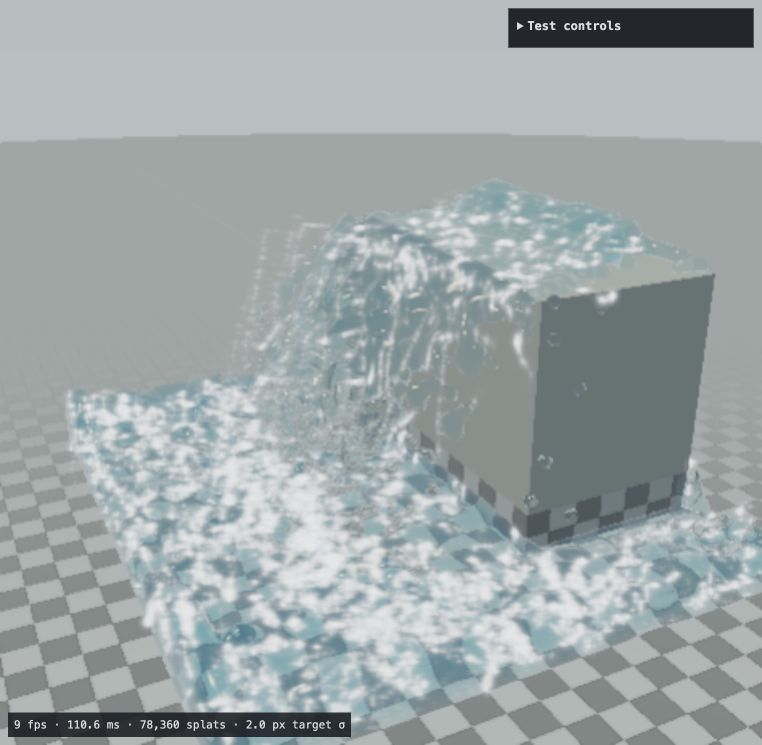
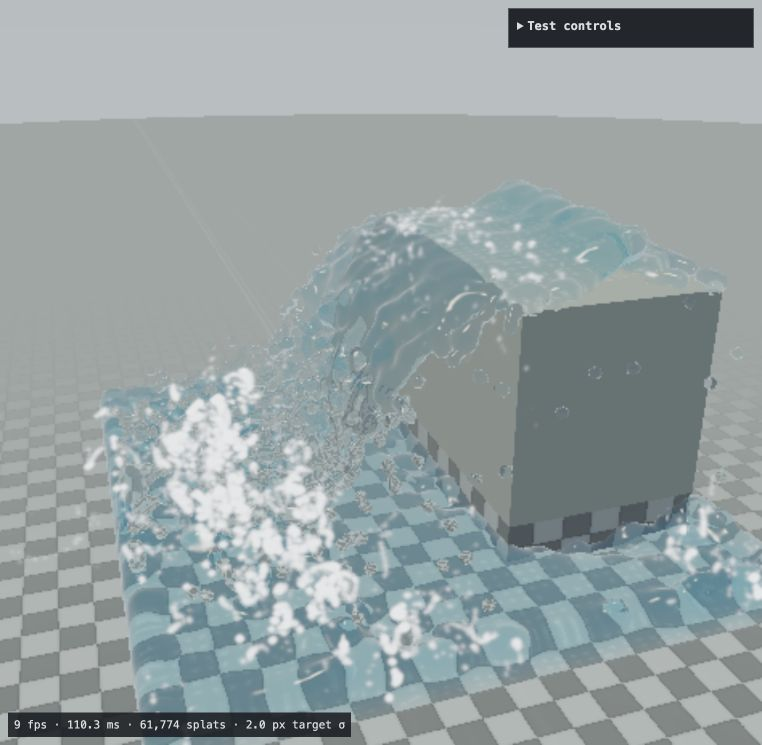
Focus whitewater emission on deformation and impacts

Changed region(s): [[0.0, 0.247, 1.0, 1.0], [0.0, 0.1544, 1.0, 0.2161]]

diff --git a/src/water-lab-detail.js b/src/water-lab-detail.js
@@ -38,30 +38,47 @@ export class LabDetail {
     ['P','V','I'].forEach((k,i)=>this.u['uSpawn'+k].value=this.spawn[i]);
     this.expiry=new Float64Array(this.capacity);this.geometry=new THREE.PlaneGeometry(2,2);this.material=new THREE.ShaderMaterial({glslVersion:THREE.GLSL3,vertexShader:QUAD_VERTEX,fragmentShader:simulation,uniforms:this.u,depthTest:false,depthWrite:false});this.scene=new THREE.Scene();this.scene.add(new THREE.Mesh(this.geometry,this.material));this.camera=new THREE.Camera();this.reset();
   }
-  reset(){this.cursor=0;this.pending=0;this.count=0;this.time=0;this.sequence=0;this.emitted=0;this.overwritten=0;this.expiry.fill(0);this.budget=new Float32Array(0);this.sources=new Float32Array(0);for(const t of this.fallback){t.image.data.fill(0);t.needsUpdate=true;}this.clear=true;this.current=0;this.bind(this.fallback);}
+  reset(){this.cursor=0;this.pending=0;this.count=0;this.time=0;this.sequence=0;this.emitted=0;this.overwritten=0;this.expiry.fill(0);this.budget=new Float32Array(0);this.strength=new Float32Array(0);this.sources=new Float32Array(0);for(const t of this.fallback){t.image.data.fill(0);t.needsUpdate=true;}this.clear=true;this.current=0;this.bind(this.fallback);}
   bind(textures){['P','V','I'].forEach((k,i)=>this.u['uDetail'+k].value=textures[i]);}
   emit(lab,dt){
     if(!this.enabled||this.density===0||!lab.surfaceMetrics)return;
-    if(this.budget.length<lab.count){const b=new Float32Array(lab.count);b.set(this.budget);for(let i=this.budget.length;i<b.length;i++)b[i]=hash(i+35);this.budget=b;const history=new Float32Array(lab.count*3);history.fill(NaN);history.set(this.sources);this.sources=history;}
+    if(this.budget.length<lab.count){const b=new Float32Array(lab.count);b.set(this.budget);for(let i=this.budget.length;i<b.length;i++)b[i]=hash(i+35);this.budget=b;const strength=new Float32Array(lab.count);strength.set(this.strength);this.strength=strength;const history=new Float32Array(lab.count*3);history.fill(NaN);history.set(this.sources);this.sources=history;}
     const s=lab.spacing,scale=lab.spec.scale;
-    let totalEnergy=0;for(let i=0;i<lab.count;i++)if(hash(i+235)<.16&&!lab.positions[i*4+3])totalEnergy+=Math.max(0,lab.surfaceMetrics[i*4+3]-.035);
+    let totalEnergy=0;
+    for(let i=0;i<lab.count;i++){
+      if(hash(i+235)>=.16)continue;
+      const o=i*4,history=i*3,point=[0,1,2].map(k=>lab.positions[o+k]+lab.surfaceMetrics[o+k]*s*.8),teleported=Number.isFinite(this.sources[history])&&Math.hypot(...point.map((v,k)=>v-this.sources[history+k]))>s*2;
+      // A missing fluid neighbor can be a wall, not air. Do not seed foam
+      // under the floor, inside a vessel wall or against a submerged body.
+      if(lab.positions[o+3]||lab.solid&&lab.solid(point)<s*.08){this.strength[i]=0;this.sources.fill(NaN,history,history+3);continue;}
+      if(teleported){this.strength[i]=0;this.sources.fill(NaN,history,history+3);}
+      const signal=Math.max(0,lab.surfaceMetrics[o+3]-.12),target=signal*signal,tau=target>this.strength[i]?.055:.18;
+      this.strength[i]+=(target-this.strength[i])*(1-Math.exp(-dt/tau));
+      totalEnergy+=this.strength[i];
+    }
     const rate=Math.min(1600,65000/Math.max(1,totalEnergy))*this.density;
     for(let i=0;i<lab.count;i++){
-      const o=i*4,energy=lab.surfaceMetrics[o+3];if(hash(i+235)>=.16||energy<.035||lab.positions[o+3]){this.sources.fill(NaN,i*3,i*3+3);continue;}
-      this.budget[i]+=dt*Math.max(0,energy-.035)*rate;
-      const count=Math.min(96,Math.floor(this.budget[i]));this.budget[i]-=count;
+      const o=i*4,energy=Math.sqrt(this.strength[i]);if(hash(i+235)>=.16||energy<.035||lab.positions[o+3]){this.sources.fill(NaN,i*3,i*3+3);continue;}
+      this.budget[i]+=dt*this.strength[i]*rate;
+      // Let a small, intense patch use more of the existing global budget.
+      // Discard throttled visual-marker debt so a spent impact cannot keep
+      // emitting a backlog long after its activity has decayed.
+      const count=Math.min(2048,Math.floor(this.budget[i]));this.budget[i]=Math.min(.999,this.budget[i]-count);
       // Persistent emitter patches trace the moving free surface. Small
-      // markers retain coherent trajectories; screen-space density gives
-      // neighboring strands a shared envelope without enlarging each marker.
-      const r=hash(i+817),theta=hash(i+41)*Math.PI*2,z=hash(i+73)*2-1,xy=Math.sqrt(1-z*z),patch=[Math.cos(theta)*xy,z,Math.sin(theta)*xy],normal=Array.from(lab.surfaceMetrics.subarray(o,o+3)),kind=r<.18?2:r<.62?1:0;
+      // markers retain coherent trajectories and accumulate into connected
+      // strands without enlarging each marker.
+      const r=hash(i+817),theta=hash(i+41)*Math.PI*2,z=hash(i+73)*2-1,xy=Math.sqrt(1-z*z),patch=[Math.cos(theta)*xy,z,Math.sin(theta)*xy],normal=Array.from(lab.surfaceMetrics.subarray(o,o+3));
+      // Surface foam belongs on a reasonably upward-facing interface.
+      // Falling sheets shed ballistic spray instead of floating foam trails.
+      const vertical=lab.velocities[o+1]*scale,kind=normal[1]>.35&&vertical>-.7&&vertical<1.5?(r<.18&&energy>.8?2:1):0;
       const tangent=patch.reduce((sum,v,k)=>sum+v*normal[k],0);for(let k=0;k<3;k++)patch[k]-=normal[k]*tangent;
       const source=normal.map((v,k)=>lab.positions[o+k]+patch[k]*s*.35+v*s*(kind===2?-.12:.8)),history=i*3;
       // Pump recycling teleports a parcel to the inlet. Never connect that
       // discontinuity with an artificial spray strand across the fixture.
       if(!Number.isFinite(this.sources[history])||Math.hypot(...source.map((v,k)=>v-this.sources[history+k]))>s*2)this.sources.set(source,history);
       for(let j=0;j<count&&this.pending<this.capacity;j++){
-        const id=++this.sequence,p=this.pending*4,along=(j+hash(id+61))/Math.max(1,count),spread=Math.min(2.5,energy*.6)/scale,life=(kind===1?.8+hash(i+93)*1.4:kind===2?.35+hash(i+93)*.9:.3+hash(i+93))*(.92+.16*hash(id+91));
-        for(let k=0;k<3;k++){const jitter=hash(id*7+k+119)-.5;this.spawn[0].image.data[p+k]=this.sources[history+k]*(1-along)+source[k]*along+jitter*s*.10;this.spawn[1].image.data[p+k]=lab.velocities[o+k]+(kind===0?(patch[k]+normal[k])*spread:0)+jitter*.025/scale;}
+        const id=++this.sequence,p=this.pending*4,along=(j+hash(id+61))/Math.max(1,count),spread=Math.min(2.5,Math.sqrt(energy)*.6)/scale,life=(kind===1?.8+hash(i+93)*1.4:kind===2?.35+hash(i+93)*.9:.3+hash(i+93))*(.92+.16*hash(id+91));
+        for(let k=0;k<3;k++){const jitter=hash(id*7+k+119)-.5;this.spawn[0].image.data[p+k]=this.sources[history+k]*(1-along)+source[k]*along+jitter*s*.10;this.spawn[1].image.data[p+k]=lab.velocities[o+k]+(kind===0?(patch[k]*.25+normal[k])*spread:0)+jitter*.025/scale;}
         this.spawn[0].image.data[p+3]=0;this.spawn[1].image.data[p+3]=life;this.spawn[2].image.data.set([detailRadius(s,scale,hash(id+11))/scale,kind,.45+.4*hash(id+13),r],p);
         const slot=(this.cursor+this.pending)%this.capacity;if(this.expiry[slot]>this.time)this.overwritten++;this.expiry[slot]=this.time+life;
         this.pending++;this.emitted++;

diff --git a/tests/water-lab-detail.test.js b/tests/water-lab-detail.test.js
@@ -26,15 +26,31 @@ test('merged transport retains reciprocal solute diffusion and held points',()=>
  for(let i=0;i<6;i++)for(let k=0;k<3;k++)assert.ok(Math.abs(expected[i*4+k]-result.chem[i*4+k])<1e-6);
  assert.deepEqual(Array.from(result.velocities.slice(0,3)),[0,0,0]);assert.equal(result.metrics[3],0);
 });
-test('quiet surfaces do not emit whitewater, localized shear does',()=>{
- const p=new Float32Array([-0.2,1,0,0,0,1,0,0,.2,1,0,0]),v=p.slice().fill(0),c=v.slice(),neighbors=buildNeighbors(p,.23).data;
- const quiet=transportFluid(p,p,v,c,neighbors,.23,1,.01);assert.equal(quiet.metrics[3]+quiet.metrics[7]+quiet.metrics[11],0);
- const next=p.slice();next[5]+=.025;const disturbed=transportFluid(p,next,v,c,neighbors,.23,1,.01);assert.ok(disturbed.metrics.some((x,i)=>i%4===3&&x>0));
+function surfaceFlow(velocity,incoming=velocity){
+ const p=[];for(let y=0;y<3;y++)for(let z=-2;z<=2;z++)for(let x=-2;x<=2;x++)p.push(x*.2,1+y*.2,z*.2,0);
+ const next=new Float32Array(p),old=next.slice(),v=next.slice().fill(0),predicted=next.slice(),c=v.slice(),dt=.01;
+ for(let i=0;i<p.length;i+=4){const current=velocity(...p.slice(i,i+3)),before=incoming(...p.slice(i,i+3));for(let k=0;k<3;k++){old[i+k]-=current[k]*dt;v[i+k]=before[k];predicted[i+k]=old[i+k]+before[k]*dt;}}
+ const result=transportFluid(old,next,v,c,buildNeighbors(next,.23).data,.23,1,dt,predicted);
+ return Math.max(...Array.from(result.metrics).filter((_,i)=>i%4===3));
+}
+test('translation, free fall and rigid rotation do not create whitewater by speed alone',()=>{
+ for(const velocity of [()=>[0,0,0],()=>[12,0,0],()=>[0,-15,0],(x,y)=>[-y*8,x*8,0],(x)=>[x*.1,0,0]])assert.equal(surfaceFlow(velocity),0);
+});
+test('strong surface deformation and an impact independently generate whitewater',()=>{
+ assert.ok(surfaceFlow(x=>[x*12,0,0])>.5);
+ assert.ok(surfaceFlow(()=>[0,-1,0],()=>[0,-8,0])>1);
 });
 test('fine Gaussian emission is dense, bounded and does not create liquid volume or solutes',()=>{
  const lab=new WaterLab(mock);lab.configure('pool');const volume=lab.volume,chem=lab.chem.slice();lab.surfaceMetrics=new Float32Array(lab.count*4);for(let i=0;i<lab.count;i++)lab.surfaceMetrics.set([0,1,0,2],i*4);
  lab.detail.emit(lab,1/60);assert.ok(lab.detail.pending>100);assert.ok(lab.detail.pending<1500);assert.equal(lab.volume,volume);assert.deepEqual(lab.chem,chem);
  assert.ok(detailRadius(.36,600,.5)/600<.36*.08);assert.ok(detailRadius(.19,.0025,.5)<.001);
+});
+test('a small intense region receives most of the bounded emission budget',()=>{
+ const count=1024,lab={count,spacing:.2,spec:{scale:1},positions:new Float32Array(count*4),velocities:new Float32Array(count*4),surfaceMetrics:new Float32Array(count*4)};
+ for(let i=0;i<count;i++){const strong=i>=count-16;lab.positions[i*4]=strong?10:0;lab.surfaceMetrics.set([0,1,0,strong?5:.18],i*4);}
+ const detail=new LabDetail(mock);detail.emit(lab,1/60);let strong=0,weak=0;
+ for(let i=0;i<detail.pending;i++)if(detail.spawn[0].image.data[i*4]>5)strong++;else weak++;
+ assert.ok(strong>800);assert.ok(strong>weak*20);assert.ok(detail.pending<1200);assert.ok(detail.budget.every(v=>v<1));detail.dispose();
 });
 test('recirculated emitters do not draw spray bridges back to their previous location',()=>{
  const count=128,lab={count,spacing:.2,spec:{scale:1},time:.05,positions:new Float32Array(count*4),velocities:new Float32Array(count*4),surfaceMetrics:new Float32Array(count*4)};
@@ -43,6 +59,15 @@ test('recirculated emitters do not draw spray bridges back to their previous loc
  for(let i=0;i<count;i++)lab.positions[i*4]=50;lab.time+=1/60;detail.emit(lab,1/60);assert.ok(detail.pending>0);
  for(let i=0;i<detail.pending;i++)assert.ok(detail.spawn[0].image.data[i*4]>49.5);
  detail.dispose();
+});
+test('emission stays coherent through a brief lull, rejects solid boundaries and makes falling spray ballistic',()=>{
+ const count=128,lab={count,spacing:.2,spec:{scale:1},positions:new Float32Array(count*4),velocities:new Float32Array(count*4),surfaceMetrics:new Float32Array(count*4),solid:()=>1};
+ for(let i=0;i<count;i++){lab.surfaceMetrics.set([0,1,0,3],i*4);lab.velocities[i*4+1]=-2;}
+ const detail=new LabDetail(mock);detail.emit(lab,.05);assert.ok(detail.pending>0);
+ for(let i=0;i<detail.pending;i++)assert.equal(detail.spawn[2].image.data[i*4+1],0);
+ const before=detail.strength.reduce((a,b)=>a+b,0);lab.surfaceMetrics.fill(0);for(let i=0;i<count;i++)lab.surfaceMetrics[i*4+1]=1;
+ detail.emit(lab,.01);const after=detail.strength.reduce((a,b)=>a+b,0);assert.ok(after<before&&after>before*.8);
+ lab.solid=()=>0;detail.pending=0;detail.emit(lab,.01);assert.equal(detail.pending,0);assert.equal(detail.strength.reduce((a,b)=>a+b,0),0);detail.dispose();
 });
 test('free detail reacts to a wind ray and has a finite lifetime without any collision dependency',()=>{
  const a=detailStep([0,1,0],[0,0,0],0,1,.1,0,0,0,null,1,30),b=detailStep([0,1,0],[0,0,0],0,1,.1,0,0,0,{origin:[-1,1,0],direction:[1,0,0]},1,30);assert.ok(b.position[0]>a.position[0]);assert.ok(a.position[1]<1);

diff --git a/src/water-lab-transport.js b/src/water-lab-transport.js
@@ -4,11 +4,16 @@ export const WATER_DENSITY=WATER_MATERIAL.density,WATER_KINEMATIC_VISCOSITY=WATE
 export function physicalCoefficients(spacing,scale,dt){const h=spacing*scale;return {viscosity:1-Math.exp(-6*WATER_KINEMATIC_VISCOSITY*dt/(h*h)),capillary:WATER_SURFACE_TENSION/(WATER_DENSITY*h*h*scale)};}
 // One reciprocal neighbor traversal handles smoothing, conserved diffusion,
 // surface normals and velocity variance. No temporary arrays per pair.
-export function transportFluid(old,next,previousVelocity,chem,neighbors,s,scale,dt,wind=0){const n=next.length/4,vel=new Float32Array(next.length),out=chem.slice(),metrics=new Float32Array(next.length),counts=new Uint16Array(n),raw=new Float32Array(next.length),h=2*s,invH2=1/(h*h),w0=315/(512*Math.PI),diff=Math.min(.006,dt*.12),coeff=physicalCoefficients(s,scale,dt);
+export function transportFluid(old,next,previousVelocity,chem,neighbors,s,scale,dt,predicted=null){const n=next.length/4,vel=new Float32Array(next.length),out=chem.slice(),metrics=new Float32Array(next.length),counts=new Uint16Array(n),raw=new Float32Array(next.length),h=2*s,invH2=1/(h*h),w0=315/(512*Math.PI),diff=Math.min(.006,dt*.12),coeff=physicalCoefficients(s,scale,dt),threshold=Math.max(.08,.3*Math.sqrt(9.81*s*scale));
  for(let i=0;i<n;i++)for(let k=0;k<3;k++)raw[i*4+k]=old[i*4+3]?0:(next[i*4+k]-old[i*4+k])/dt;
- for(let i=0;i<n;i++){const o=i*4;let weight=0,ax=0,ay=0,az=0,nx=0,ny=0,nz=0,shear=0,count=0,c0=0,c1=0,c2=0;
-  for(let a=0;a<NEIGHBORS;a++){const j=neighbors[i*NEIGHBORS+a];if(j<0)break;const q=j*4,x=next[o]-next[q],y=next[o+1]-next[q+1],z=next[o+2]-next[q+2],r2=x*x+y*y+z*z;if(r2>=h*h)continue;const v=1-r2*invH2,w=w0*v*v*v,r=Math.sqrt(r2),vx=raw[q]-raw[o],vy=raw[q+1]-raw[o+1],vz=raw[q+2]-raw[o+2];weight+=w;ax+=vx*w;ay+=vy*w;az+=vz*w;shear+=(vx*vx+vy*vy+vz*vz)*w;nx+=x*w;ny+=y*w;nz+=z*w;if(r<s*1.9)count++;const d=(1-r/h)*diff;c0+=(chem[q]-chem[o])*d;c1+=(chem[q+1]-chem[o+1])*d;c2+=(chem[q+2]-chem[o+2])*d;}
-  counts[i]=count;const normalLength=Math.hypot(nx,ny,nz),inv=1/Math.max(normalLength,1e-8),surface=Math.min(1,normalLength/s*12),tke=Math.sqrt(shear/Math.max(.2,weight))*scale,impact=Math.max(0,Math.hypot(raw[o]-previousVelocity[o],raw[o+1]-previousVelocity[o+1]+9.81/scale*dt,raw[o+2]-previousVelocity[o+2])*scale-.35),airShear=Math.max(0,Math.hypot(raw[o]*scale,raw[o+1]*scale,raw[o+2]*scale-wind)-3)*.08,energy=surface*Math.min(5,Math.max(0,tke-.12)+impact*.55+airShear),smooth=.012+coeff.viscosity/Math.max(.1,weight),cap=coeff.capillary*dt*surface;
+ for(let i=0;i<n;i++){const o=i*4;let weight=0,ax=0,ay=0,az=0,nx=0,ny=0,nz=0,strain=0,count=0,c0=0,c1=0,c2=0;
+  for(let a=0;a<NEIGHBORS;a++){const j=neighbors[i*NEIGHBORS+a];if(j<0)break;const q=j*4,x=next[o]-next[q],y=next[o+1]-next[q+1],z=next[o+2]-next[q+2],r2=x*x+y*y+z*z;if(r2>=h*h)continue;const v=1-r2*invH2,w=w0*v*v*v,r=Math.sqrt(r2),vx=raw[q]-raw[o],vy=raw[q+1]-raw[o+1],vz=raw[q+2]-raw[o+2];weight+=w;ax+=vx*w;ay+=vy*w;az+=vz*w;const radial=(vx*x+vy*y+vz*z)/Math.max(r,1e-8);strain+=radial*radial*w;nx+=x*w;ny+=y*w;nz+=z*w;if(r<s*1.9)count++;const d=(1-r/h)*diff;c0+=(chem[q]-chem[o])*d;c1+=(chem[q+1]-chem[o+1])*d;c2+=(chem[q+2]-chem[o+2])*d;}
+  // Deforming flow and kinetic energy lost in the constraint/contact solve
+  // identify aeration sites. Fast translation, gravity-driven free fall and
+  // rigid rotation alone must not keep spraying an otherwise coherent sheet.
+  const ix=predicted?(predicted[o]-old[o])/dt:previousVelocity[o],iy=predicted?(predicted[o+1]-old[o+1])/dt:previousVelocity[o+1]-9.81/scale*dt,iz=predicted?(predicted[o+2]-old[o+2])/dt:previousVelocity[o+2];
+  const lostSpeed=Math.sqrt(Math.max(0,ix*ix+iy*iy+iz*iz-raw[o]**2-raw[o+1]**2-raw[o+2]**2))*scale;
+  counts[i]=count;const normalLength=Math.hypot(nx,ny,nz),inv=1/Math.max(normalLength,1e-8),surface=Math.min(1,normalLength/s*12),deformation=Math.sqrt(strain/Math.max(.2,weight))*scale,breaking=Math.max(0,deformation-threshold)/(threshold+.35),impact=Math.max(0,lostSpeed-threshold*1.4)/(threshold+.35),energy=surface*Math.min(1,weight/.18)*Math.min(5,breaking*.8+impact*.7),smooth=.012+coeff.viscosity/Math.max(.1,weight),cap=coeff.capillary*dt*surface;
   if(!old[o+3]){vel[o]=raw[o]+ax*smooth-nx*inv*cap;vel[o+1]=raw[o+1]+ay*smooth-ny*inv*cap;vel[o+2]=raw[o+2]+az*smooth-nz*inv*cap;}
   out[o]+=c0;out[o+1]+=c1;out[o+2]+=c2;out[o+3]=Math.min(1,chem[o+3]*Math.exp(-dt*.65)+energy*dt*.3);metrics.set([nx*inv,ny*inv,nz*inv,old[o+3]?0:energy],o);
  }return {velocities:vel,chem:out,metrics,counts};}

diff --git a/src/water-lab-detail-renderer.js b/src/water-lab-detail-renderer.js
@@ -16,16 +16,11 @@ const fragment=`precision highp float;in vec2 vQ;in float vAlpha,vDepth;in vec3 
 uniform highp sampler2D uOpaqueRead,uWaterSurface;uniform vec2 uResolution;uniform vec3 uSH[16];uniform int uSHDegree;uniform float uAmbient,uScale;
 ${SH_GLSL}
 void main(){if(vAlpha<.0001)discard;vec2 uv=gl_FragCoord.xy/uResolution;float opaque=texture(uOpaqueRead,uv).a;if(vDepth>opaque)discard;float surface=texture(uWaterSurface,uv).a,under=max(0.,vDepth-surface);float a=exp(-.5*dot(vQ,vQ))*vAlpha*exp(-under*uScale*.16);if(a<.0001)discard;float b[16];basisSH(normalize(vDirection),b);vec3 light=vec3(0);for(int i=0;i<16;i++){if(i>=(uSHDegree+1)*(uSHDegree+1))break;light+=uSH[i]*b[i];}vec3 white=(vec3(2.4)+max(light,vec3(0)))*uAmbient;outColor=vec4(white*a,a);}`;
-// Accumulate optical density first. Keep a fine core and a broader envelope
-// shared by nearby strands, rather than making each Gaussian a large circle.
+// Accumulate optical density with only a short reconstruction footprint.
+// Coherent emission creates the shape; no broad halo is added around it.
 // This is not a distance field or a camera-motion blur, and does not move water.
 const reconstruct=`precision highp float;in vec2 vUv;out vec4 outColor;uniform sampler2D uMist,uOpaqueRead;uniform vec2 uResolution;
-void main(){float center=texture(uOpaqueRead,vUv).a,total=0.;vec4 envelope=vec4(0),core=texture(uMist,vUv);
-for(int y=-2;y<=2;y++)for(int x=-2;x<=2;x++){vec2 offset=vec2(x,y),uv=vUv+offset*2.2/uResolution;float depth=texture(uOpaqueRead,uv).a,edge=exp(-abs(depth-center)*18.),w=exp(-dot(offset,offset)*.5)*edge;envelope+=texture(uMist,uv)*w;total+=w;}
-envelope/=max(total,.0001);vec4 field=core*.3+envelope*.7;float density=field.a;if(density<.00001)discard;
-// A broad contribution gains coverage only where multiple markers overlap;
-// isolated grains retain their translucency instead of becoming large dots.
-float connected=smoothstep(.06,.32,envelope.a),alpha=1.-exp(-density*(1.+connected*.9));vec3 light=field.rgb/max(density,.00001);outColor=vec4(light*alpha,alpha);}`;
+void main(){float center=texture(uOpaqueRead,vUv).a,total=0.;vec4 field=vec4(0);for(int y=-1;y<=1;y++)for(int x=-1;x<=1;x++){vec2 uv=vUv+vec2(x,y)*1.25/uResolution;float depth=texture(uOpaqueRead,uv).a,edge=exp(-abs(depth-center)*18.),w=(x==0?.6:.2)*(y==0?.6:.2)*edge;field+=texture(uMist,uv)*w;total+=w;}field/=max(total,.0001);float density=field.a;if(density<.00001)discard;float alpha=1.-exp(-density);vec3 light=field.rgb/max(density,.00001);outColor=vec4(light*alpha,alpha);}`;
 export class LabDetailRenderer {
  constructor(lab,uniforms){this.lab=lab;this.uniforms=uniforms;const g=this.geometry=new THREE.InstancedBufferGeometry();g.setAttribute('position',new THREE.Float32BufferAttribute([-1,-1,0,1,-1,0,1,1,0,-1,1,0],3));g.setIndex([0,1,2,0,2,3]);g.setAttribute('aDetailId',new THREE.InstancedBufferAttribute(Float32Array.from({length:lab.detail.capacity},(_,i)=>i),1));g.instanceCount=lab.detail.capacity;this.material=new THREE.ShaderMaterial({glslVersion:THREE.GLSL3,vertexShader:vertex,fragmentShader:fragment,uniforms:{...uniforms,...lab.detail.u},transparent:true,depthTest:false,depthWrite:false,blending:THREE.CustomBlending,blendSrc:THREE.OneFactor,blendDst:THREE.OneFactor});this.scene=new THREE.Scene();const mesh=new THREE.Mesh(g,this.material);mesh.frustumCulled=false;this.scene.add(mesh);
  this.target=new THREE.WebGLRenderTarget(1,1,{type:THREE.HalfFloatType,depthBuffer:false,minFilter:THREE.LinearFilter,magFilter:THREE.LinearFilter});this.quadGeometry=new THREE.PlaneGeometry(2,2);this.reconstruct=new THREE.ShaderMaterial({glslVersion:THREE.GLSL3,vertexShader:QUAD_VERTEX,fragmentShader:reconstruct,uniforms:{...uniforms,uMist:{value:this.target.texture}},transparent:true,depthTest:false,depthWrite:false,blending:THREE.CustomBlending,blendSrc:THREE.OneFactor,blendDst:THREE.OneMinusSrcAlphaFactor});this.composite=new THREE.Scene();this.composite.add(new THREE.Mesh(this.quadGeometry,this.reconstruct));this.camera=new THREE.Camera();

diff --git a/tests/water-lab-detail-visual.html b/tests/water-lab-detail-visual.html
@@ -5,10 +5,10 @@ const field={renderer,camera,target,output,quadCamera:new THREE.Camera(),resolut
 document.querySelector('#run').textContent='Compare whitewater on / off';
 document.querySelector('#run').onclick=async()=>{document.querySelector('#run').disabled=true;document.querySelector('#result').textContent='Simulating waterfall…';try{
  lab.configure('waterfall');camera.position.fromArray(lab.spec.eye);camera.lookAt(new THREE.Vector3(...lab.spec.target));camera.updateMatrixWorld();
- for(let i=0;i<120;i++){lab.step(lab.timestep,true);lab.detail.advance(lab.timestep,lab);if(i%3===0){document.querySelector('#result').textContent='Simulating waterfall '+i+'/120';await new Promise(r=>setTimeout(r,0));}}
+ const generation=[];for(let i=0;i<120;i++){lab.step(lab.timestep,true);if(i===29||i===119){const zones=Array.from({length:3},()=>({parcels:0,eligible:0,strength:0}));for(let j=0;j<lab.count;j++){const o=j*4,z=zones[lab.positions[o+1]>4?0:lab.positions[o+1]>.9?1:2];z.parcels++;if(lab.surfaceMetrics[o+3]>.12)z.eligible++;z.strength+=lab.detail.strength[j]||0;}generation.push({step:i+1,zones});}lab.detail.advance(lab.timestep,lab);if(i%3===0){document.querySelector('#result').textContent='Simulating waterfall '+i+'/120';await new Promise(r=>setTimeout(r,0));}}
  const state=[];for(let channel=0;channel<3;channel++){const a=new Float32Array(lab.detail.capacity*4);await renderer.readRenderTargetPixelsAsync(lab.detail.targets[1-lab.detail.current],0,0,256,lab.detail.capacity/256,a,0,channel);state.push(a);}let alive=0,radius=0;for(let i=0;i<lab.detail.capacity;i++){if(state[0][i*4+3]<state[1][i*4+3]){alive++;radius+=state[2][i*4];}}
  const pixels=[];for(const enabled of [false,true]){lab.detail.enabled=enabled;visual.render({dt:1/60,adaptive:false});renderer.getContext().finish();const data=new Float32Array(480*450*4);renderer.readRenderTargetPixels(target,0,0,480,450,data);pixels.push(data);const img=document.createElement('img');img.src=renderer.domElement.toDataURL();img.alt=enabled?'Fine spray on':'Fine spray off';img.width=480;document.body.append(img);}
  let sum=0,max=0,changed=0;for(let i=0;i<pixels[0].length;i+=4){const d=(Math.abs(pixels[0][i]-pixels[1][i])+Math.abs(pixels[0][i+1]-pixels[1][i+1])+Math.abs(pixels[0][i+2]-pixels[1][i+2]))/3;sum+=d;max=Math.max(max,d);if(d>.02)changed++;}
- document.querySelector('#result').textContent=JSON.stringify({alive,radius:radius/Math.max(1,alive),fine:lab.detail.count,meanDifference:sum/(480*450),maxDifference:max,changedPixels:changed,pass:changed>2000},null,2);
+ document.querySelector('#result').textContent=JSON.stringify({generation,alive,radius:radius/Math.max(1,alive),fine:lab.detail.count,meanDifference:sum/(480*450),maxDifference:max,changedPixels:changed,pass:changed>2000},null,2);
  }catch(e){document.querySelector('#result').textContent=e.stack;}};
 </script></body></html>

diff --git a/src/water-lab.js b/src/water-lab.js
@@ -33,7 +33,7 @@ export class WaterLab {
  // The constraint iterations already project against the solid field on the
  // GPU (or in the CPU reference). Avoid duplicating that work for every parcel.
  const speed=length(v),limit=s*.45/dt;if(speed>limit)for(let k=0;k<3;k++)v[k]*=limit/speed;predicted.set(p.map((x,k)=>x+v[k]*dt),o);}
- const predictDone=performance.now();const next=this.gpu.solve(predicted,s,p=>this.collide(p),3);const solveDone=performance.now();const transport=transportFluid(old,next,this.velocities,this.chem,this.gpu.neighbors,s,scale,dt,this.wind);
+ const predictDone=performance.now();const next=this.gpu.solve(predicted,s,p=>this.collide(p),3);const solveDone=performance.now();const transport=transportFluid(old,next,this.velocities,this.chem,this.gpu.neighbors,s,scale,dt,predicted);
  this.velocities=transport.velocities;this.chem=transport.chem;this.surfaceMetrics=transport.metrics;this.neighborCounts=transport.counts;
  this.positions=next;this.exchangeSediment(dt);if(this.detail.cpu!==this.gpu.cpu){this.detail.cpu=this.gpu.cpu;this.detail.reset();}this.detail.emit(this,dt);this.detailJet=this.jet;if(!deferDetail)this.detail.advance(dt,this);this.timings={predict:predictDone-start,solve:solveDone-predictDone,transport:performance.now()-solveDone};this.steps++;this.jet=null;this.revision++;}
  sampleFastSurface(i){return !this.neighborCounts||this.neighborCounts[i]<25;}

diff --git a/README.md b/README.md
@@ -391,12 +391,14 @@ Rain verification: all 145 Node tests and the production build pass. The GPU rai
 
 Computation is bounded by **Bulk particle budget** (8,192 by default, up to 32,768 for stress tests) and a minimum normalized spacing of 0.11 for the bounded density atlas. Diagnostics report requested physical spacing, actual spacing, and an explicit limit when the requested refinement exceeds either budget. Rain stops supplying new volume when the same water budget is reserved, including airborne/deposited water; existing water is retained. Resolution changes reset the fixture and reseed its occupied volume on a finer lattice. Initialization has lattice quantization error; subsequent transport retains equal parcel volume and conserved inventories. Changing detail does not tune the material or simulation to the camera. Very small capillary time steps and high particle counts can advance slower than real time; the simulation/wall-time ratio is displayed.
 
-**Fine spray / bubbles / foam** enables a separate 131,072-slot GPU particle pool. **Fine particle density** controls emission. Local neighbor velocity variance, impact velocity changes, and strong air-relative surface motion trigger emission at exposed, disturbed water; a quiet surface emits none. Emission concentrates at persistent, disturbed surface patches and samples their trajectories continuously, with a bounded rate of 65,000 markers per simulated second at 1×. These are small translucent white covariance-projected Gaussians with SH environment response. An additive screen-space optical-density field combines a fine core with a broader, depth-aware neighborhood envelope. Overlapping strands gain shared coverage, producing fuller connected wisps without increasing individual Gaussian radii. Pump recirculation resets emitter history so it cannot draw a spray bridge across the fixture. This is a density field, not an SDF; opaque depth still clips the 3D markers. Surface markers, spray and bubbles inherit the flow, drift with ambient wind and the cursor wind brush, and fade after roughly 0.3–2.2 seconds. They are lightweight visual tracers, with no rigid collisions or added liquid mass. At the largest scales a Gaussian represents a small patch of froth/mist rather than one resolved microscopic droplet. Marker radii normally remain below 8% of a resolved parcel spacing (with a microscopic size floor), screen filtering preserves Gaussian coverage, and the reconstructed optical surface determines underwater attenuation. The existing mass-bearing bulk and rain deposits still run through the water solver.
+**Fine spray / bubbles / foam** enables a separate 131,072-slot GPU particle pool. **Fine particle density** controls emission. Strong relative deformation and kinetic energy lost in the fluid constraint/contact solve trigger emission at exposed, disturbed water. Fast coherent translation, free fall, and rigid rotation alone emit none. The trigger scales its threshold with physical parcel spacing and rejects surfaces facing into the solid SDF. Source strength favors stronger events quadratically, with a short attack and release to retain coherent trails through momentary fluctuations. A small intense patch can consume more of the existing global emission budget; throttled marker debt is discarded so it cannot keep emitting after the event has ended. Falling interfaces shed ballistic spray; upward-facing interfaces favor surface foam and entrained bubbles. Emission concentrates at persistent, disturbed surface patches and samples their trajectories continuously, with a bounded rate of 65,000 markers per simulated second at 1×. These are small translucent white covariance-projected Gaussians with SH environment response. An additive screen-space optical-density field uses a tight, depth-aware 3×3 reconstruction kernel. The previous broad envelope and opacity boost are removed; connected shape comes from the moving emission sites and overlapping tiny Gaussians, without a broad glowing halo. Pump recirculation resets emitter history so it cannot draw a spray bridge across the fixture. This is a density field, not an SDF; opaque depth still clips the 3D markers. Surface markers, spray and bubbles inherit the flow, drift with ambient wind and the cursor wind brush, and fade after roughly 0.3–2.2 seconds. They are lightweight visual tracers, with no rigid collisions or added liquid mass. At the largest scales a Gaussian represents a small patch of froth/mist rather than one resolved microscopic droplet. Marker radii normally remain below 8% of a resolved parcel spacing (with a microscopic size floor), screen filtering preserves Gaussian coverage, and the reconstructed optical surface determines underwater attenuation. The existing mass-bearing bulk and rain deposits still run through the water solver.
 
 Per-frame physics work stops adding catch-up substeps after 12 ms (one expensive step can exceed that); fixed simulation time steps and the simulation/wall-time diagnostic remain separate from display FPS. Performance changes remove per-frame sparse-brick expansion from the bounded renderer, reuse the density atlas when simulation state is unchanged, combine transport/diffusion/whitewater metrics into one allocation-light CPU neighbor pass, and reuse neighbor lists until a conservative displacement margin is exhausted. Fine-particle motion and lifetime run on the GPU without per-particle readback; an explicit CPU reference remains available. This is still a coarse bulk-fluid stress test, not a resolved turbulence or droplet simulation, and a higher frame rate does not imply real-time simulated time at extreme scales.
 
-Verification tools: `tests/water-lab-detail.test.js` covers size/resolution coupling, bounded refinement, conserved solutes, quiet/sheared emission, bounded tracer counts, wind, lifetime, and neighbor-cache invalidation. `tests/water-lab-detail-gpu.html` compares GPU tracer advection to its CPU reference, compares atlas density to analytical Gaussian sums, and checks the smallest/largest scale cases for finite positions and unchanged liquid volume. `tests/water-lab-performance.html` uses a fixed 480×450 render size, three substeps per measured frame, warm-up frames, GPU completion, and the original physical scales for comparison.
+Verification tools: `tests/water-lab-detail.test.js` covers size/resolution coupling, bounded refinement, conserved solutes, quiet/coherent/deforming/impacting flows, source persistence, rejection of solid boundaries, ballistic spray, bounded tracer counts, wind, lifetime, and neighbor-cache invalidation. `tests/water-lab-detail-visual.html` compares fine detail on/off and reports generation statistics by waterfall region. `tests/water-lab-detail-gpu.html` compares GPU tracer advection to its CPU reference, compares atlas density to analytical Gaussian sums, and checks the smallest/largest scale cases for finite positions and unchanged liquid volume. `tests/water-lab-performance.html` uses a fixed 480×450 render size, three substeps per measured frame, warm-up frames, GPU completion, and the original physical scales for comparison.
 
 Current verification: 154 Node tests and the production build passed, followed by the focused water suite after the final visual tuning. GPU fine-particle advection matched the CPU reference within `7.58e-5`, including texture uploads crossing multiple rows and the ring-buffer boundary; the fixed density atlas matched analytical Gaussian sums within `1.49e-7` (both tolerance `1e-4`). Five scale/budget cases, including 29,140 fluid parcels, retained finite positions, zero inventory drift, and zero neighbor overflow over 75 steps. The seven-station fixture also passed 100 steps per station. The spray visibility fixture compares actual GPU particle state and rendered fine-detail on/off images.
 
 Performance remains a limitation: the live finer waterfall measured around 9–10 fps at the inspected preview size, advancing roughly 0.16 simulated seconds per wall second. The fixed three-substep benchmark measured 466–518 ms median per frame across glass, pool, and waterfall in this session; it does not establish an overall speedup. Neighbor processing and synchronous GPU readback still dominate CPU frame time. The bounded budgets prevent unbounded refinement, but do not guarantee real-time operation.
+
+Focused-emission verification: the full 156-test suite passed before the final per-source allocation change; the final 27 focused water tests and production build passed afterward, including a new check that 16 strongly disturbed parcels receive over 95% of emissions in a 1,024-parcel weak/strong comparison under the same global budget. Tests also reject coherent translation, free fall, rigid rotation and solid-facing sources, and verify impact/deformation response and source persistence. The GPU visual fixture produced 54,945 live markers matching its CPU inventory and a visible on/off difference after 120 waterfall steps. At step 30, 108 of 1,189 falling-sheet parcels met the revised eligibility threshold, compared with all 1,189 under the previous trigger in the corresponding CPU reference snapshot. These thresholds remain coarse aeration heuristics, not a resolved turbulence model.
